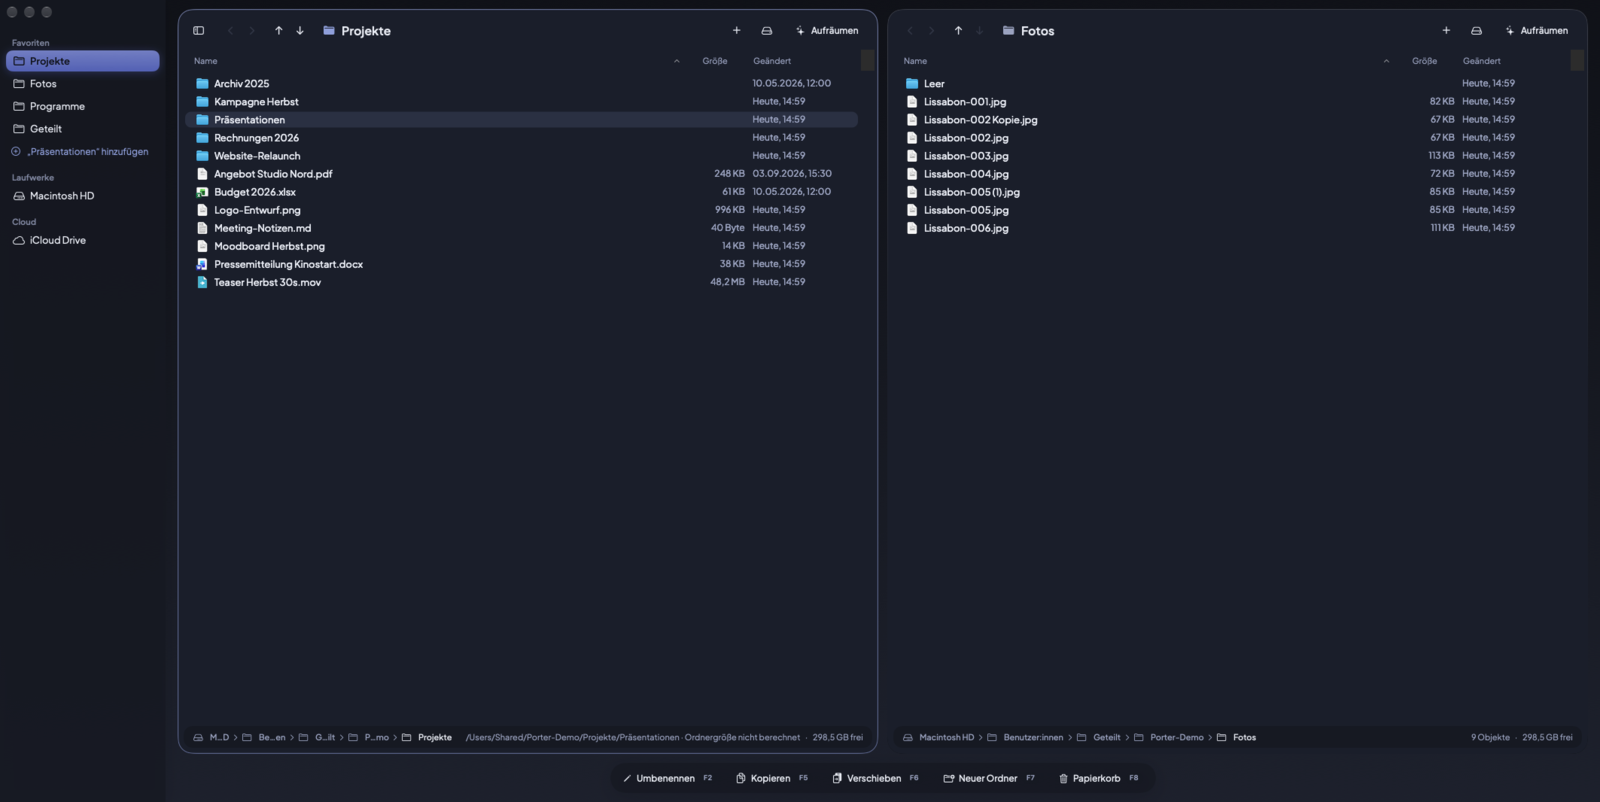
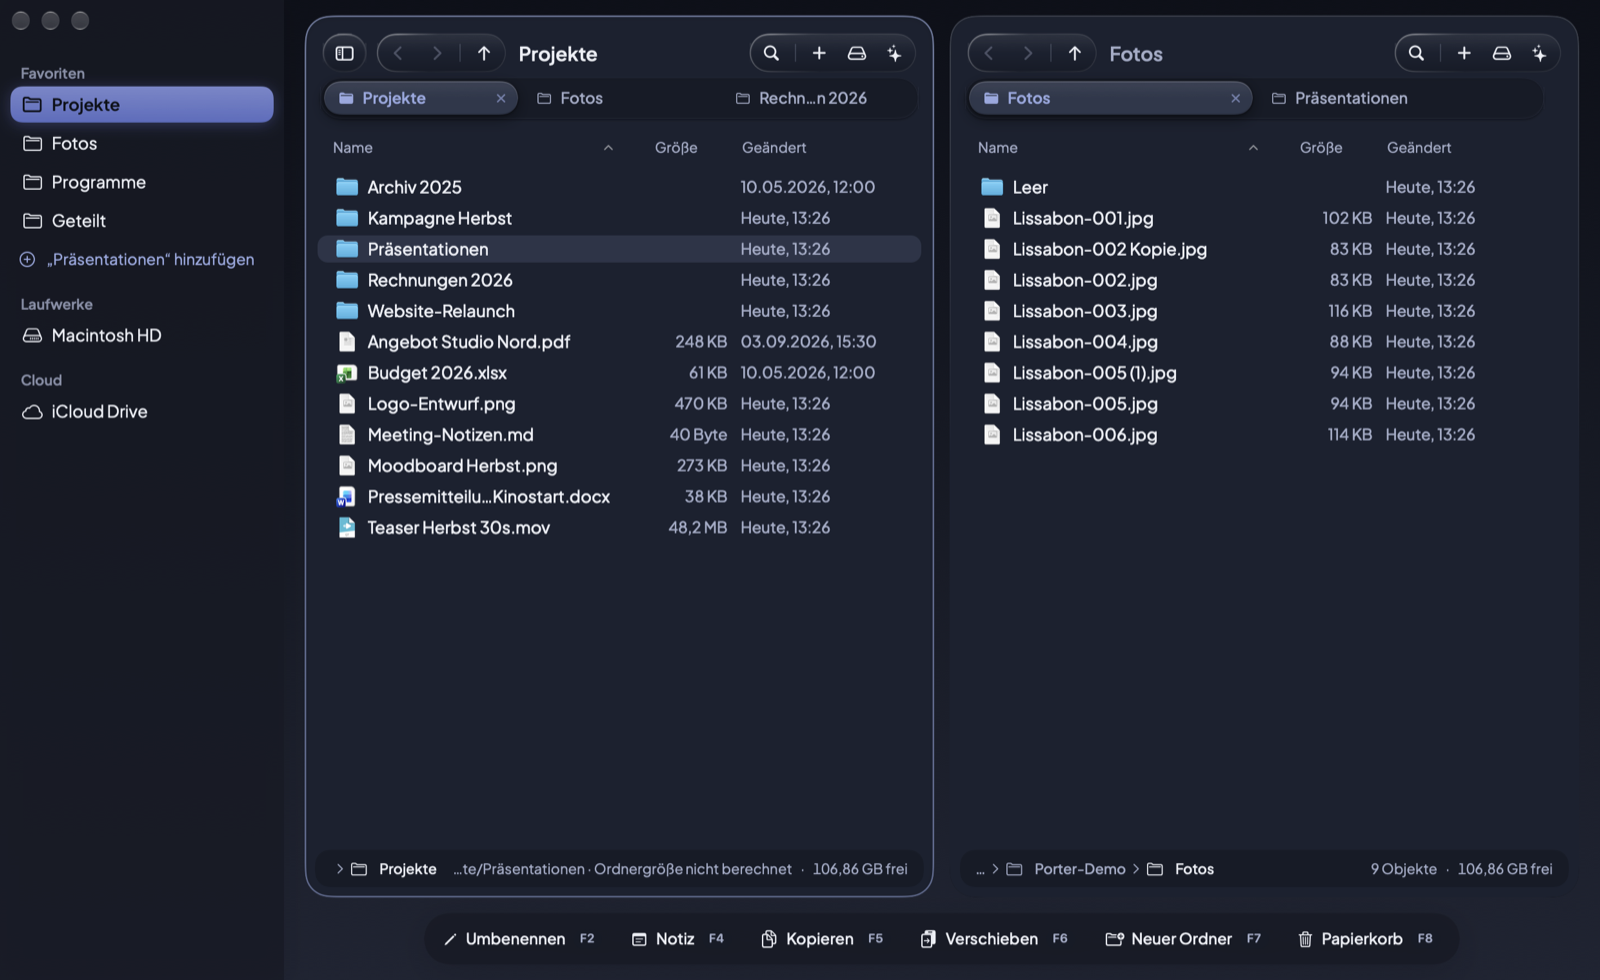
Verkaufsseite 0.7.0: Tabs verschieben, neue Bildschirmbilder (Demo-Ordner)

diff --git a/README.md b/README.md
@@ -10,7 +10,7 @@ Porter ist ein Dateimanager mit zwei Spalten für macOS 27. Links ein Ordner, re
 
 ### Zwei Spalten
 - Tab wechselt die Spalte, ein Klick irgendwo hinein auch. F5 kopiert, F6 verschiebt, F2 benennt um, F7 legt einen Ordner an, F8 wirft in den Papierkorb. Liegt am Ziel schon eine Datei mit dem Namen, fragt Porter vorher.
-- Jede Spalte hat Tabs, Zurück und Vor und eine Pfadleiste, deren Glieder man anklicken kann. Die Leertaste öffnet Quick Look.
+- Jede Spalte hat Tabs. Die ziehst du mit der Maus in die Reihenfolge, die du willst, und Porter merkt sie sich. Dazu Zurück und Vor und eine Pfadleiste, deren Glieder du anklicken kannst. Die Leertaste öffnet Quick Look.
 - In der Seitenleiste stehen deine Favoriten (hineinziehen, umsortieren), die Laufwerke mit Auswerfen-Knopf und iCloud sowie andere Cloud-Ordner. Auch einzelne Dateien kannst du dort ablegen oder per Rechtsklick hinzufügen. Sie stehen dann im Block „Dateien“ und gehen mit einem Klick auf. Wie breit die Leiste ist, stellst du am rechten Rand ein.
 - Sortieren per Klick auf den Spaltenkopf, gruppieren nach Art, Datum oder Größe. Jede Spalte merkt sich ihre eigene Ansicht.
 
